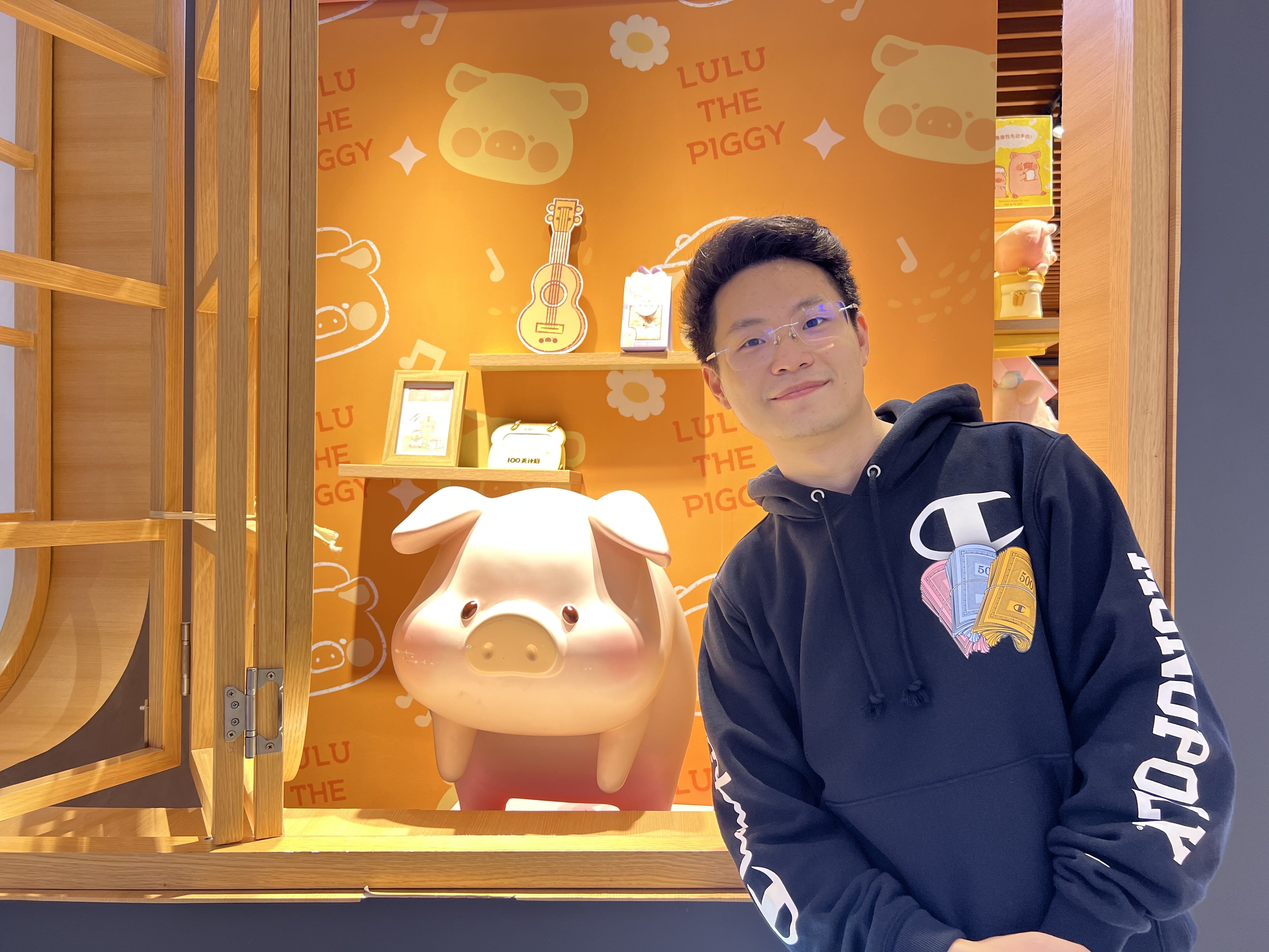
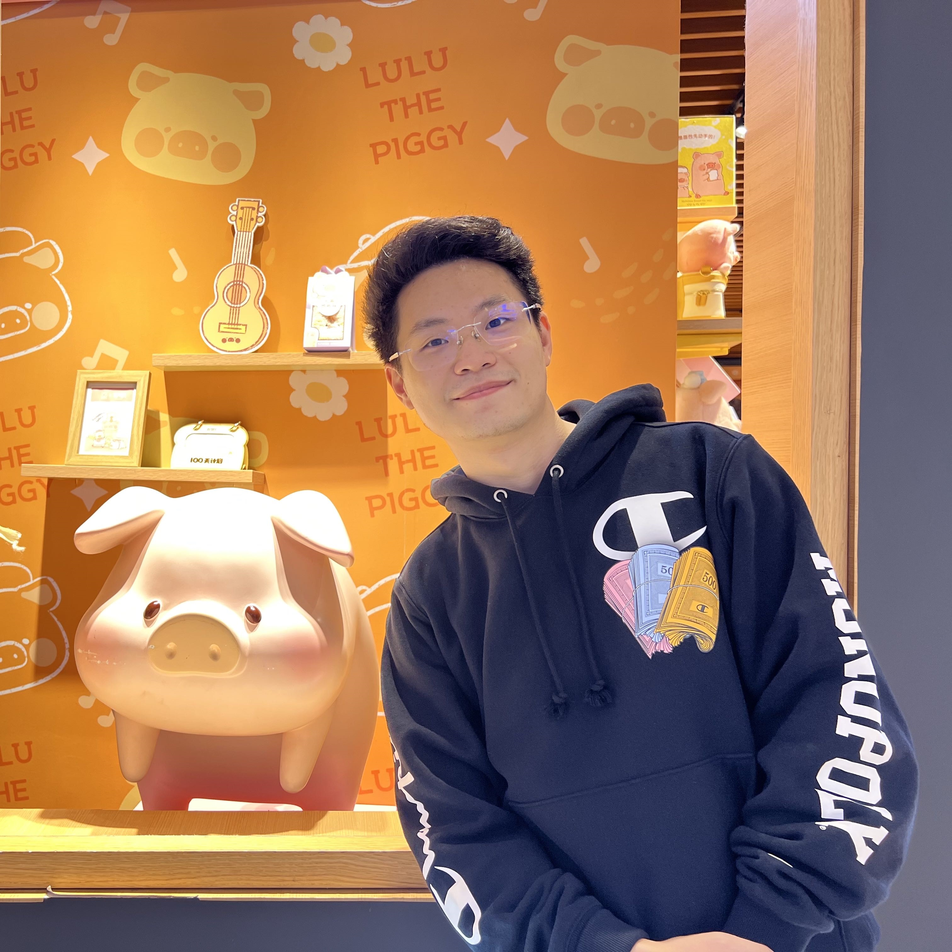
make jinchuan's photo a square

diff --git a/_pages/members.md b/_pages/members.md
@@ -294,9 +294,10 @@ order: 1
         </div>
     </div>
     <div class="col-sm mt-3 mt-md-0">
+        <div class="square">
         <a href="https://jctian98.github.io/">
             <img class="img-fluid rounded z-depth-1" src="{{ site.baseurl }}/assets/img/jinchuan.jpg">
-        </a>
+        </a></div>
         <div class="caption">
             Jinchuan Tian
         </div>
